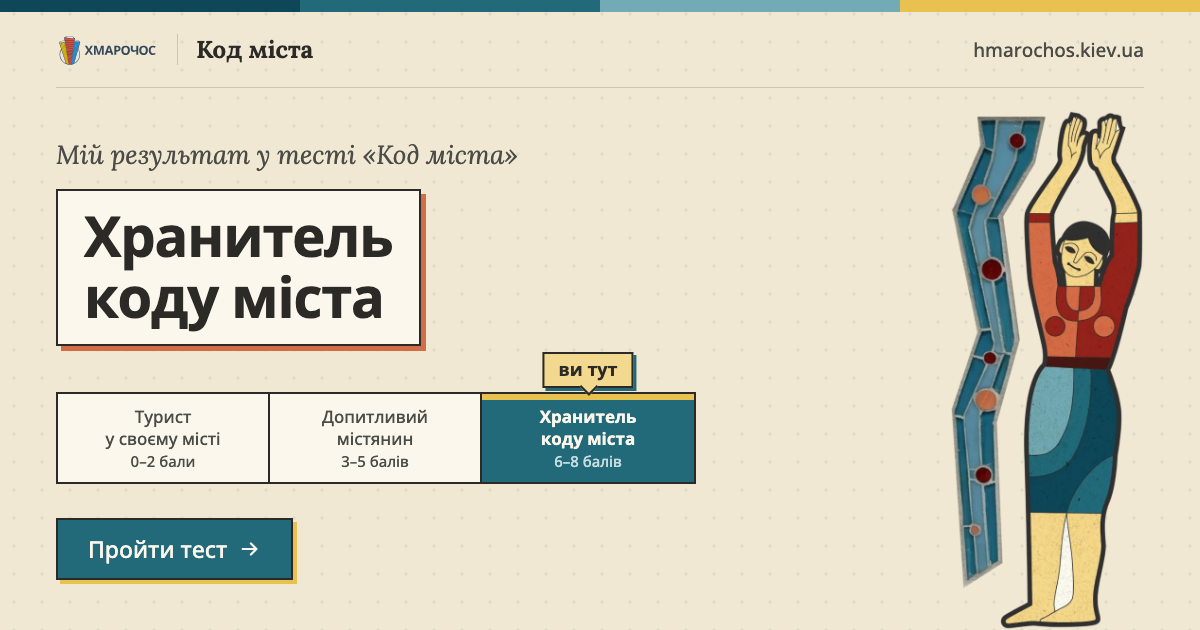
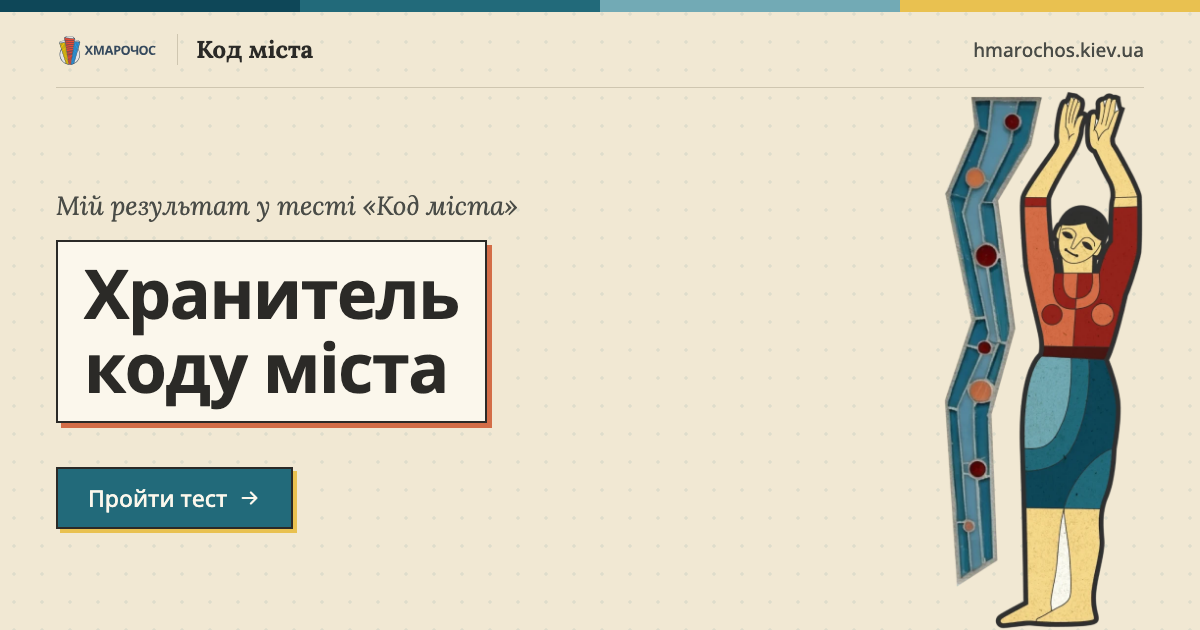
Результат без шкали рівнів і «ви тут»: більший персонаж поруч зі званням стоїть на картці з описом; OG рівнів без шкали, з більшим званням

Changed region(s): [[0.0308, 0.3016, 0.5858, 0.9349], [0.7708, 0.1508, 0.9558, 1.0], [0.0308, 0.2111, 0.4317, 0.2714]]

diff --git a/og-src/og.html b/og-src/og.html
@@ -86,6 +86,10 @@ body.tourist { --fr: 1.029; --fh: 470px; } body.citizen { --fr: 0.711; } body.ke
 .solo { position: absolute; right: 56px; bottom: 0; height: var(--fh); }
 .solo img { display: block; height: 100%; width: auto; }
 body.level .text { left: 56px; right: calc(56px + var(--fh) * var(--fr) + 48px); max-width: 640px; }
+
+body.level .text h1 { font-size: 68px; }
+body.level .text .btn { margin-top: 44px; }
+body.level { --fh: 540px; } body.tourist { --fh: 470px; }
 </style>
 </head>
 <body>
@@ -110,12 +114,6 @@ body.level .text { left: 56px; right: calc(56px + var(--fh) * var(--fr) + 48px);
   <div class="text">
     <p class="kicker">Мій результат у тесті «Код міста»</p>
     <div class="plate"><h1 id="title"></h1></div>
-    <div class="scale" id="scale">
-      <span class="here" id="here">ви тут</span>
-      <div data-l="tourist">Турист<br>у&nbsp;своєму місті<small>0–2 бали</small></div>
-      <div data-l="citizen">Допитливий<br>містянин<small>3–5 балів</small></div>
-      <div data-l="keeper">Хранитель<br>коду міста<small>6–8 балів</small></div>
-    </div>
     <span class="btn">Пройти тест <svg viewBox="0 0 24 24" fill="none" stroke="currentColor" stroke-width="2.4" stroke-linecap="round" stroke-linejoin="round"><path d="M4 12h15M13 6l6 6-6 6"/></svg></span>
   </div>
 </section>
@@ -132,9 +130,6 @@ body.level .text { left: 56px; right: calc(56px + var(--fh) * var(--fr) + 48px);
     document.getElementById("char").src = `../public/art/char-${slug}.webp`;
     const h = document.getElementById("title");
     lv.title.forEach((line, k) => { if (k) h.appendChild(document.createElement("br")); h.appendChild(document.createTextNode(line)); });
-    const order = ["tourist", "citizen", "keeper"];
-    document.querySelectorAll("#scale div").forEach((d) => d.classList.toggle("on", d.dataset.l === slug));
-    document.getElementById("here").style.left = `${(order.indexOf(slug) * 2 + 1) / 6 * 100}%`;
   }
 </script>
 </body>

diff --git a/app/skins/veselka/VeselkaSkin.tsx b/app/skins/veselka/VeselkaSkin.tsx
@@ -8,7 +8,7 @@
 
 import { useEffect, useLayoutEffect, useRef, useState } from "react";
 import type { QuizApi } from "../../useQuiz";
-import { intro, levels, questions, type Level, type Photo, type Question } from "../../../data/quiz";
+import { intro, questions, type Level, type Photo, type Question } from "../../../data/quiz";
 import { asset } from "../../bp";
 import { SITE_URL, TEST_SHARE_TEXT, resultShareUrl } from "../../share";
 import { COVER_ALT, buzz, glide, useKeys } from "../common";
@@ -398,26 +398,6 @@ function Sheet({ quiz }: { quiz: QuizApi }) {
 }
 
 // ——— результат ———
-function LevelScale({ current }: { current: Level }) {
-  const at = levels.findIndex((l) => l.slug === current.slug);
-  return (
-    <div className={`scaleWrap at-${at}`}>
-      <span className="here" aria-hidden>
-        <i />
-        ви тут
-      </span>
-      <ol className="scale" aria-label="Рівні результату">
-        {levels.map((l) => (
-          <li key={l.slug} className={`pane lvl ${l.slug === current.slug ? "on lit" : "off"}`} aria-current={l.slug === current.slug ? "true" : undefined}>
-            <span className="name">{l.title}</span>
-            <span className="range">{l.range}</span>
-          </li>
-        ))}
-      </ol>
-    </div>
-  );
-}
-
 
 function Figure({ level }: { level: Level }) {
   if (!level.character) return null;
@@ -463,7 +443,6 @@ function ResultBody({ level, score, onRestart }: { level: Level; score?: number;
           </div>
           <Figure level={level} />
         </div>
-        {score !== undefined && <LevelScale current={level} />}
         <section className="pane resCard">
           <p className="lead">{level.description}</p>
           {score !== undefined && <Share url={shareUrl} text={level.shareText} label={UI.shareResult} />}

diff --git a/app/skins/veselka/veselka.css b/app/skins/veselka/veselka.css
@@ -2094,6 +2094,33 @@ body:has(.veselka.result) {
   .veselka .resHead.lvl-keeper { --fh: 290px; }
 }
 
+/* ═══ Результат без шкали рівнів: більший персонаж поруч зі званням, стоїть
+   ногами на верхньому краї картки з описом. ═══ */
+.veselka .resHead { --fh: 236px; margin-top: 24px; }
+.veselka .resHead.lvl-keeper { --fh: 280px; }
+.veselka .resHead .resInfo { padding-bottom: 22px; }
+.veselka .resHead + .resCard { margin-top: 0; }
+.veselka .resHead .figure img { margin-bottom: -1px; }
+/* турист майже квадратний: на телефоні звання над ним, картинка на всю ширину */
+@media (max-width: 899px) {
+  .veselka .resHead.lvl-tourist { padding-right: 0; min-height: 0; }
+  .veselka .resHead.lvl-tourist .resInfo { min-height: 0; padding-bottom: 6px; }
+  .veselka .resHead.lvl-tourist .figure { position: static; height: auto; display: flex; justify-content: flex-end; }
+  .veselka .resHead.lvl-tourist .figure img { width: min(100%, 320px); height: auto; }
+}
+@media (min-width: 900px) {
+  .veselka .resHead { --fh: 400px; --gap: 32px; margin-top: 28px; }
+  .veselka .resHead.lvl-tourist { --fh: 300px; }
+  .veselka .resHead.lvl-keeper { --fh: 430px; }
+  .veselka .resHead .resInfo { gap: 18px; padding-bottom: 30px; }
+  .veselka.result .resHead .title { font-size: 34px; line-height: 40px; }
+}
+@media (min-width: 900px) and (max-height: 820px) {
+  .veselka .resHead { --fh: 340px; }
+  .veselka .resHead.lvl-tourist { --fh: 270px; }
+  .veselka .resHead.lvl-keeper { --fh: 370px; }
+}
+
 /* ——— 1x-екрани: контур рівно 1.5px ——— */
 @media (resolution < 1.5dppx) {
   .veselka { --lw: 1px; }

diff --git a/app/share.ts b/app/share.ts
@@ -14,4 +14,4 @@ export function resultShareUrl(slug: string): string {
 }
 
 /** Версія OG-картинок: міняємо, коли картинки перемальовано, щоб соцмережі взяли нові. */
-export const OG_VERSION = "6";
+export const OG_VERSION = "7";

diff --git a/docs/style-veselka.md b/docs/style-veselka.md
@@ -50,7 +50,7 @@
 
 «Ви тут» — гірчична наліпка з ромбиком-вказівником і бірюзовою тінню; поточна комірка шкали має гірчичну смужку зверху. Те саме — на OG-картинках рівнів. Адреси OG мають `?v=OG_VERSION` (app/share.ts) — підняти номер після перемальовування, щоб соцмережі взяли нові.
 
-Результат: лише одна картинка персонажа рівня (char-*.webp) у правому куті, без постера, арки й річки. Персонаж стоїть ногами на верхній лінії шкали рівнів. Ліворуч від нього, по нижньому краю, бал «N з 8» і звання. «Ви тут» звисає під шкалою й вказує вгору на поточний рівень. Ширина текстової колонки рахується з пропорцій картинки (`--fh` висота, `--fr` ширина/висота). OG рівнів зроблено так само: текст і шкала ліворуч, персонаж у правому куті на нижньому краї. Усі кути з радіусом 0.
+Результат: лише одна картинка персонажа рівня (char-*.webp) у правому куті, без постера, арки й річки. Шкали рівнів і «ви тут» немає. Персонаж великий (десктоп: хранителька 430px, містянин 400px, турист 300px заввишки) і стоїть ногами на верхньому краї картки з описом. Ліворуч від нього, по нижньому краю, бал «N з 8» і звання. На телефоні турист, який майже квадратний, стоїть під званням на всю ширину. Ширина текстової колонки рахується з пропорцій картинки (`--fh` висота, `--fr` ширина/висота). OG рівнів так само: підпис, велике звання й кнопка ліворуч, великий персонаж у правому куті на нижньому краї. Усі кути з радіусом 0.
 
 ## Де підкрутити
 
